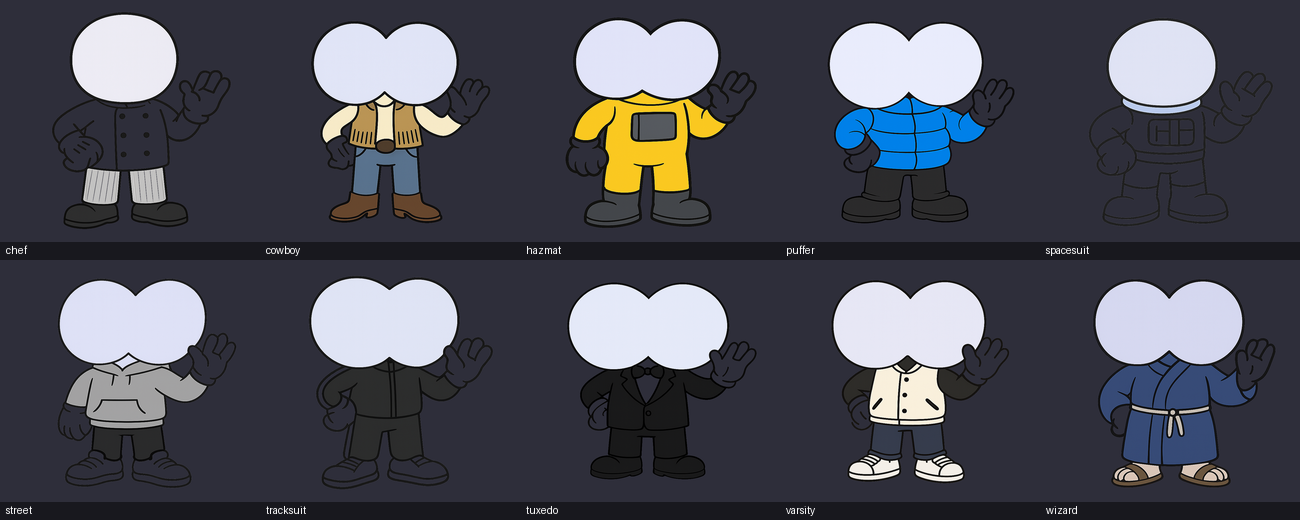
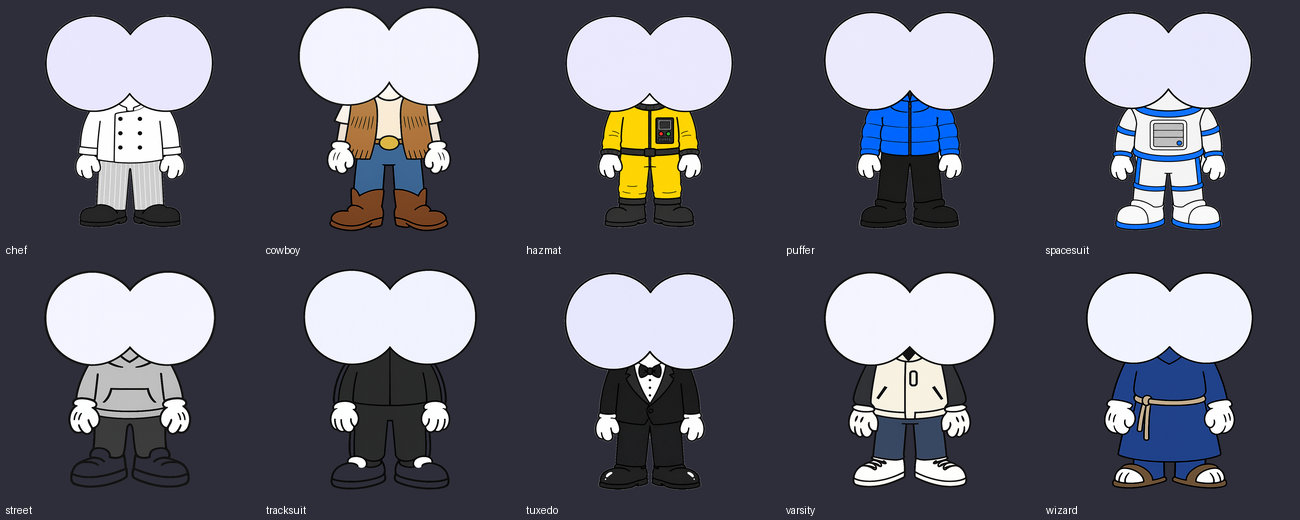
Complete body set: 10/10 approved (5 n8n renders + 5 ChatGPT re-rolls, bg-stripped)

diff --git a/tools/render_bodies.py b/tools/render_bodies.py
@@ -1,0 +1,105 @@
+"""Targeted body re-rolls with per-slot fix notes.
+
+    python tools/render_bodies.py --only chef,hazmat,puffer,spacesuit,tuxedo
+
+Renders against refs/character.png (the arms-down master) ONLY — never the
+eyes ref, which is what used to re-insert eye sockets. Each slot can carry an
+extra clause aimed at the exact way it failed last time. Output goes straight
+to traits/body/<name>.png for review BEFORE committing; nothing pushes itself.
+"""
+
+from __future__ import annotations
+
+import argparse
+import base64
+import json
+import sys
+import urllib.error
+import urllib.request
+from pathlib import Path
+
+ROOT = Path(__file__).resolve().parent.parent
+sys.path.insert(0, str(ROOT / 'tools'))
+from build_trait_workflow import BODIES, body_prompt  # noqa: E402
+
+KEY_FILE = Path(r'C:\Users\rigby\AppData\Local\Temp\claude\C--Users-rigby\1a944995-7b70-4754-a07c-1191f7d8d97f\scratchpad\openai.key')
+
+# Global hardening appended to every render: the drift is always toward dark.
+BRIGHT = (
+    " The entire image is brightly lit with rich, fully saturated colours - "
+    "nothing is darkened, greyed out, or in shadow, and every clothing colour "
+    "is vivid and true to its description."
+)
+
+# Per-slot notes aimed at each slot's last failure.
+FIXES = {
+    'chef': ' The chef jacket is PURE WHITE #FFFFFF fabric with black buttons - the jacket is white, not black, not grey.',
+    'hazmat': ' The head is fully OPAQUE and filled solid with lavender-white #E8EAFB - never transparent, never dark, never showing the background through it.',
+    'puffer': ' Both gloves are PURE SNOW-WHITE #FFFFFF like classic cartoon mascot gloves - absolutely not black.',
+    'spacesuit': ' Every shape is FILLED with solid colour: the suit panels solid white #F2F2F6, the joints and trim solid colours - no empty, unfilled, or wireframe areas anywhere.',
+    'tuxedo': '',
+    'street': ' The sneakers are chunky and WHITE #FFFFFF with black outlines.',
+}
+
+
+def render(key: str, prompt: str) -> bytes:
+    import mimetypes
+    import uuid
+    boundary = f"----mofo{uuid.uuid4().hex}"
+    buf = bytearray()
+    for k, v in {
+        "model": "gpt-image-1", "prompt": prompt, "n": "1",
+        "size": "1024x1024", "quality": "medium", "background": "transparent",
+    }.items():
+        buf += f"--{boundary}\r\nContent-Disposition: form-data; name=\"{k}\"\r\n\r\n{v}\r\n".encode()
+    ref = ROOT / 'refs' / 'character.png'
+    ctype = mimetypes.guess_type(ref.name)[0] or 'image/png'
+    buf += (
+        f"--{boundary}\r\nContent-Disposition: form-data; name=\"image[]\"; "
+        f"filename=\"{ref.name}\"\r\nContent-Type: {ctype}\r\n\r\n"
+    ).encode()
+    buf += ref.read_bytes()
+    buf += b"\r\n"
+    buf += f"--{boundary}--\r\n".encode()
+
+    req = urllib.request.Request(
+        "https://api.openai.com/v1/images/edits", data=bytes(buf),
+        headers={"Authorization": f"Bearer {key}",
+                 "Content-Type": f"multipart/form-data; boundary={boundary}"},
+    )
+    with urllib.request.urlopen(req, timeout=420) as r:
+        payload = json.load(r)
+    return base64.b64decode(payload["data"][0]["b64_json"])
+
+
+def main() -> None:
+    ap = argparse.ArgumentParser()
+    ap.add_argument('--only', required=True, help='comma-separated body names')
+    args = ap.parse_args()
+
+    key = KEY_FILE.read_text(encoding='utf-8').strip()
+    names = [n.strip() for n in args.only.split(',') if n.strip()]
+    out_dir = ROOT / 'traits' / 'body'
+    out_dir.mkdir(parents=True, exist_ok=True)
+
+    for name in names:
+        if name not in BODIES:
+            print(f'  !! unknown body: {name}')
+            continue
+        prompt = body_prompt(BODIES[name]) + BRIGHT + FIXES.get(name, '')
+        try:
+            png = render(key, prompt)
+        except urllib.error.HTTPError as e:
+            body = e.read().decode(errors='replace')[:200]
+            print(f'  {name}: HTTP {e.code} {body}')
+            if e.code in (401, 403) or 'credit' in body or 'quota' in body:
+                sys.exit('  stopping - key/credit problem')
+            continue
+        (out_dir / f'{name}.png').write_bytes(png)
+        print(f'  {name}: rendered ({len(png)//1024} KB)')
+
+    print('\n  review before committing - nothing pushed yet')
+
+
+if __name__ == '__main__':
+    main()
